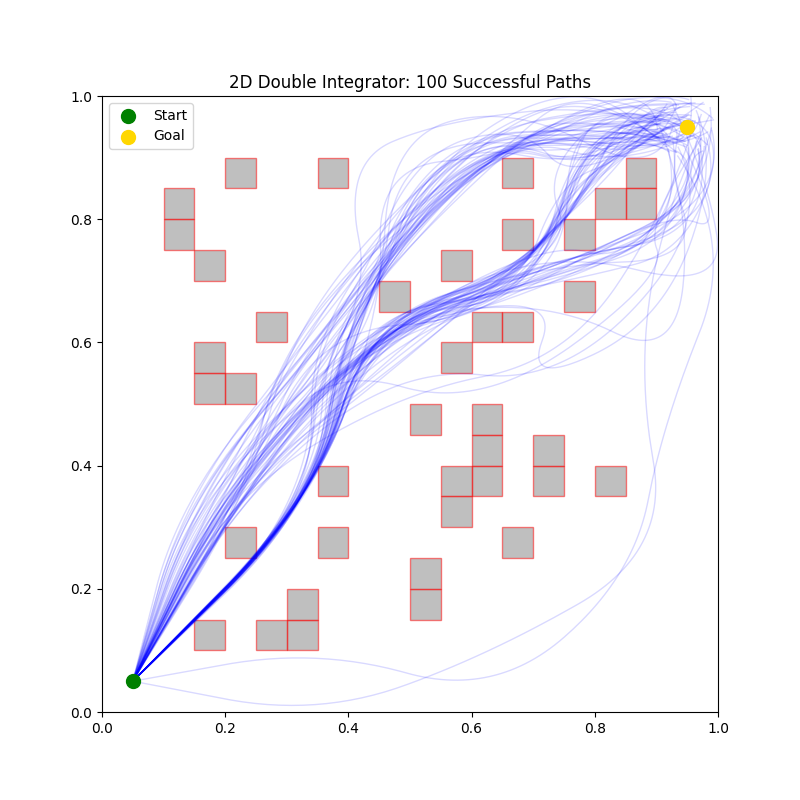
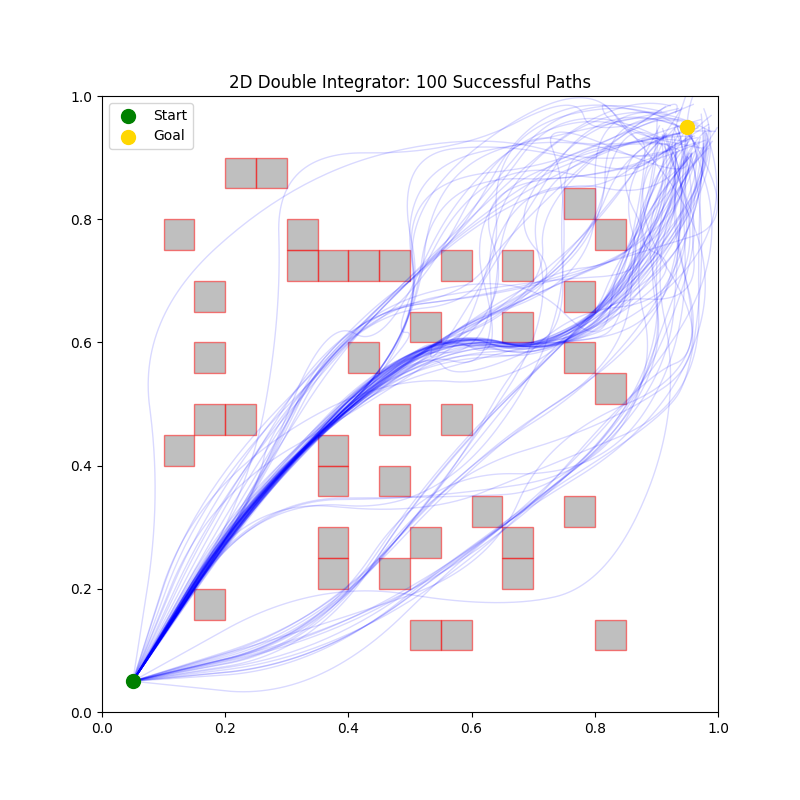
vis

diff --git a/benchmarks/view_uni_sol.py b/benchmarks/view_uni_sol.py
@@ -38,7 +38,11 @@ def rollout_full_trajectory(start_state, actions, sst_params, sim_params, prop_f
             
     return jnp.stack(trajectory)
 
+
+import matplotlib.pyplot as plt
 import matplotlib.patches as patches
+import numpy as np
+from matplotlib.colors import LinearSegmentedColormap
 
 def plot_all_results(data_path, obstacles):
     data = np.load(data_path, allow_pickle=True)
@@ -46,54 +50,80 @@ def plot_all_results(data_path, obstacles):
     
     fig, ax = plt.subplots(figsize=(8, 8))
     
-    # 1. Plot Obstacles as Rectangles
-    # obs is [x1, y1, x2, y2]
+    # Obstacle Gradient Setup
+    obs_cmap = LinearSegmentedColormap.from_list("grey_grad", ["#d3d3d3", "#a9a9a9"])
+    
+    # Plot Obstacles
     for obs in obstacles:
-        width = obs[2] - obs[0]
-        height = obs[3] - obs[1]
-        rect = patches.Rectangle(
-            (obs[0], obs[1]), width, height, 
-            linewidth=1, edgecolor='red', facecolor='gray', alpha=0.5
-        )
+        x1, y1, x2, y2 = obs[0], obs[1], obs[2], obs[3]
+        gradient = np.linspace(0, 1, 100).reshape(-1, 1)
+        ax.imshow(gradient, extent=[x1, x2, y1, y2], cmap=obs_cmap, aspect='auto', zorder=1)
+        rect = patches.Rectangle((x1, y1), x2-x1, y2-y1, linewidth=1.5, edgecolor='#505050', facecolor='none', zorder=2)
         ax.add_patch(rect)
 
-    # 2. Reconstruct and Plot each solution path
-    for sol in solutions:
-        full_traj = rollout_full_trajectory(
-            sol['path'][0], 
-            sol['actions'], 
-            sst_params, 
-            sim_params, 
-            callables.prop_fn
-        )
-        
-        # Plot (x, y) coordinates
-        ax.plot(full_traj[:, 0], full_traj[:, 1], color='blue', alpha=0.15, linewidth=1)
-        
-    # 3. Plot Start and Goal for context
-    ax.scatter(sst_params.start.x, sst_params.start.y, color='green', s=100, label='Start', zorder=5)
-    ax.scatter(sst_params.goal.x, sst_params.goal.y, color='gold', s=100, label='Goal', zorder=5)
+    # 1. Goal Gradient Setup (Green to White radial gradient)
+    radius = 0.05
+    res = 50
+    x_grid = np.linspace(-radius, radius, res)
+    y_grid = np.linspace(-radius, radius, res)
+    X, Y = np.meshgrid(x_grid, y_grid)
+    R = np.sqrt(X**2 + Y**2)
+    
+    # Create radial alpha/color mask: 1.0 at center, 0.0 at edge
+    goal_gradient = np.clip(1.0 - (R / radius), 0, 1)
+    
+    # 1. Goal Gradient Setup
+    radius = 0.05
+    res = 50
+    x_grid = np.linspace(-radius, radius, res)
+    y_grid = np.linspace(-radius, radius, res)
+    X, Y = np.meshgrid(x_grid, y_grid)
+    R = np.sqrt(X**2 + Y**2)
+    
+    # Create the gradient (1.0 at center, 0.0 at edge)
+    goal_gradient = np.clip(1.0 - (R / radius), 0, 1)
+    
+    # Create a mask: set everything outside the radius to transparent (NaN or alpha 0)
+    # Using np.ma (masked array) is the cleanest way to hide pixels outside the circle
+    mask = R <= radius
+    masked_gradient = np.ma.masked_where(~mask, goal_gradient)
+    
+    # 2. Plot the Masked Gradient
+    ax.imshow(masked_gradient, extent=[sst_params.goal.x-radius, sst_params.goal.x+radius, 
+                                       sst_params.goal.y-radius, sst_params.goal.y+radius], 
+              cmap='Greens', alpha=0.9, zorder=4)
+    
+    # 3. Add the Outline
+    circle_outline = plt.Circle((sst_params.goal.x, sst_params.goal.y), radius, 
+                                color='green', fill=False, linewidth=1.5, zorder=5)
+    ax.add_patch(circle_outline)
 
-    # 4. Format Plot
+    # 3. Plot Paths
+    for sol in solutions:
+        full_traj = rollout_full_trajectory(sol['path'][0], sol['actions'], sst_params, sim_params, callables.prop_fn)
+        ax.plot(full_traj[:, 0], full_traj[:, 1], color='blue', alpha=0.15, linewidth=1, zorder=3)
+        
+    # Start Marker
+    ax.scatter(sst_params.start.x, sst_params.start.y, color='blue', s=20, label='Start', zorder=5)
+
+    # Clean axes
+    ax.set_xticks([])
+    ax.set_yticks([])
+    for spine in ax.spines.values(): spine.set_visible(False)
+    
     ax.set_xlim(sim_params.bounds.min_x, sim_params.bounds.max_x)
     ax.set_ylim(sim_params.bounds.min_y, sim_params.bounds.max_y)
     ax.set_aspect('equal')
-    ax.set_title(f"2D Double Integrator: {len(solutions)} Successful Paths")
-    ax.legend()
     
-    plt.savefig('benchmarks/uni_solutions.png')
-    print(f"Saved visualization to benchmarks/uni_solutions.png")
+    plt.tight_layout()
+    plt.savefig('benchmarks/uni_solutions.png', bbox_inches='tight', pad_inches=0)
+    print("Saved visualization.")
 
 # Run plotting
 
-batch_size = 4096
-time_to_evolve = 30
+batch_size = 2048
+time_to_evolve = 10
 
-motion_constraints = MotionConstraints(
-    max_vel = 0.5,
-    min_vel = -0.5,
-    max_accel = 1.0,
-    min_accel = -1.0)
 
 bounds = Bounds(
     min_x = 0.0, max_x = 1.0,
@@ -104,31 +134,30 @@ bounds = Bounds(
 start_pos = Position(x = 0.05, y = 0.05, z = 0.0)
 goal_pos = Position(x = 0.95, y = 0.95, z = 0.0)
 
+motion_constraints = MotionConstraints(
+    max_vel = 0.4,       # Max linear velocity
+    min_vel = 0.0,       # Unicycle usually moves forward
+    max_accel = 1.5,     # Used here as Max Angular Velocity (omega)
+    min_accel = -1.5)
+
 sim_params = MJXparams(
     motion_constraints=motion_constraints,
     physics_constants=PhysicsConstants(),
     batch_size=batch_size,
-    bounds = bounds,
-    dims=4,        # [x, y, vx, vy]
-    action_dims=2, # [ax, ay]
-    dt = 0.02,
+    bounds = Bounds(min_x=0.0, max_x=1.0, min_y=0.0, max_y=1.0, min_z=0.0, max_z=0.0),
+    dims=3,              # [x, y, theta]
+    action_dims=2,       # [v, omega]
+    dt = 0.1,
     seed = 42
 )
 
 sst_params = SSTparams(
     batch_size=batch_size,
-    δBN=0.04,
-    δs=0.02,
-    decay=0.8,
-    start=start_pos,
-    goal=goal_pos,
+    δBN=0.04, δs=0.02, decay=0.8,
+    start=Position(x=0.05, y=0.05, z=0.0),
+    goal=Position(x=0.95, y=0.95, z=0.0),
     goal_radius=0.05,
-    geo_cost_to_go_weight=0.2,
-    do_cost_to_go=True,
-    do_maximal= True,
-    do_set_cover= True,
-    time_to_evolve= time_to_evolve,
-    sparsity = 0,
+    time_to_evolve=time_to_evolve,
 )
 
 callables = Callables(
@@ -141,4 +170,4 @@ callables = Callables(
 )
 obstacles = helper.get_obs('envs/tree2d.csv')
 
-plot_all_results('benchmarks/uni_solutions.npz', obstacles)
+plot_all_results('benchmarks/uni_results.npz', obstacles)

diff --git a/benchmarks/unicycle_vel.py b/benchmarks/unicycle_vel.py
@@ -213,7 +213,7 @@ if __name__ == "__main__":
     # Unicycle Configuration
     # ------------------------------------------------------------------
     batch_size = 2048
-    time_to_evolve = 10 
+    time_to_evolve = 40 
 
     motion_constraints = MotionConstraints(
         max_vel = 0.4,       # Max linear velocity
@@ -228,7 +228,7 @@ if __name__ == "__main__":
         bounds = Bounds(min_x=0.0, max_x=1.0, min_y=0.0, max_y=1.0, min_z=0.0, max_z=0.0),
         dims=3,              # [x, y, theta]
         action_dims=2,       # [v, omega]
-        dt = 0.1,
+        dt = 0.025,
         seed = 42
     )
 
@@ -267,7 +267,7 @@ if __name__ == "__main__":
     # 2. Execution Loop
     # ------------------------------------------------------------------
     times, iters, sizes, costs = [], [], [], []
-
+    all_solutions = []
     for i in range(100):
         gc.collect()
 
@@ -322,9 +322,16 @@ if __name__ == "__main__":
             times.append(timer)
             iters.append(iter_val)
             sizes.append(size)
+
+            all_solutions.append({
+                'path': np.array(path),       # The sparse nodes in the tree
+                'actions': np.array(actions), # The constant actions applied between nodes
+                'start': np.array([sst_params.start.x, sst_params.start.y, 0.0]),
+                'goal': np.array([sst_params.goal.x, sst_params.goal.y])
+            })
             
             print(f"Run {i:02d}: Goal reached! Iters: {iter_val}, Time: {timer*1e3:.2f}ms, Cost: {cost:.3f}")
-
+    np.savez('benchmarks/uni_results.npz', solutions=all_solutions)
         # Final Statistics Logic
     times = jnp.array(times)
     iters = jnp.array(iters)

diff --git a/view2.py b/view2.py
@@ -421,12 +421,13 @@ if __name__ == "__main__":
 
         # Run 10 iterations per environment
         for i in range(10):
+            rnd = np.random.randint(0, 10000)
             gc.collect()
             tree = rrtree.KinoTree.init(max_size=MAX_TREE_SIZE, state_dim=sim_params.dims, action_dim=sim_params.action_dims)
             tree = jax.device_put(tree)
             tree, _ = rrtree.add_nodes(tree, init, controls, -1, 0.0, 1)
 
-            result = jit_while(tree, sst_params, sim_params, callables, obstacles, i)
+            result = jit_while(tree, sst_params, sim_params, callables, obstacles, rnd)
             tree, key, goal_mask, goal, states, start_idx, iter_val, size = jax.block_until_ready(result)
 
             path_nodes, actions = extract_sol(tree, goal_mask, start_idx)